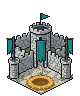
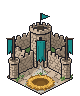
art: warmer sandstone hatchery, nest pixels unchanged
Claude-Session: https://claude.ai/code/session_017RHVL464jicCK1FPtZFXqo

Changed region(s): [[0.1, 0.2188, 0.9, 0.875], [0.2, 0.7812, 0.35, 0.875]]

diff --git a/apps/web/art/prompts.md b/apps/web/art/prompts.md
@@ -362,3 +362,5 @@ Shared kit tail: "1px dark navy outline, blank, no text, flat front view, crisp 
 Discarded: close-up lock 817 and 831 (did not read as a padlock), track 821 (bamboo), thumb 822 (a face), bar 824 (checkerboard baked in), shield 841 and ribbon 842 at 24/20 px (a dark box; too small), get-egg 861, move 865 and 882 (diagonal arrows), collect 883 and 889, rebreed 888, clear 870 (filled the canvas), XP 873 (dark box), and four 429 "too many concurrent jobs" refusals, which cost nothing.
 
 Code (Pillow, script kept in the art session): alpha forced to 0 or 255. Every 9-slice piece was remapped so its corners are the generated corners at the exact inset and each edge and the centre are one repeating column or row taken from the middle of the generated edge, so CSS can stretch them cleanly; the frame's centre is flat `#f3ead2`. Plank, resource, bar, track and thumb were cut from their larger canvas this way. Card: header tiled from an 8-column strip, right half of the header mirrored from the left, a 1 px darker green line under it, bottom-right corner mirrored from the bottom-left (the generated card had a stray blob there). Bubble: body cut above the drawn tail, bottom edge mirrored from the top edge; the tail is its own 12x8 piece. Pills: one blue pill recoloured by hue to yellow, green, purple, grey and red (outline and value ramp kept). Ribbons: one red ribbon cut to 12x20, cloth recoloured to each `--el-*` token, a 5x5 element glyph drawn on in white (dark on light and electric). Shields: nearest-neighbour 20x24 from the 32 px shield, broken inner-outline pixels filled from their neighbours, face recoloured per rarity. Avatar frame: the checkerboard the model painted inside was flood-filled to transparent. Drawn entirely in code: `ui.kit.lock` (12x12 dark disc, white padlock) and `icon.move.32` (four yellow arrows from one rotated arrow, light top-left, dark bottom-right, 1 px navy outline).
+
+Hatchery sandstone (2026-11-02, code, 0 generations): on `building.hatchery` and `.2` to `.4`, every grey stone pixel (HSV saturation < 0.16, value > 0.22) outside the courtyard wedge `abs(x-40) <= min((y-66)*0.95, 22)`, rows 66 to 95, moves to hue 0.085, saturation 0.20 + 0.12 × (1 − value), value × 1.02. Outlines, banners, flags, grass and the wedge (nest and its flagstones) are unchanged, so the nest stays pixel-identical on all four levels. The castle no longer blends into the grey rim rocks.
